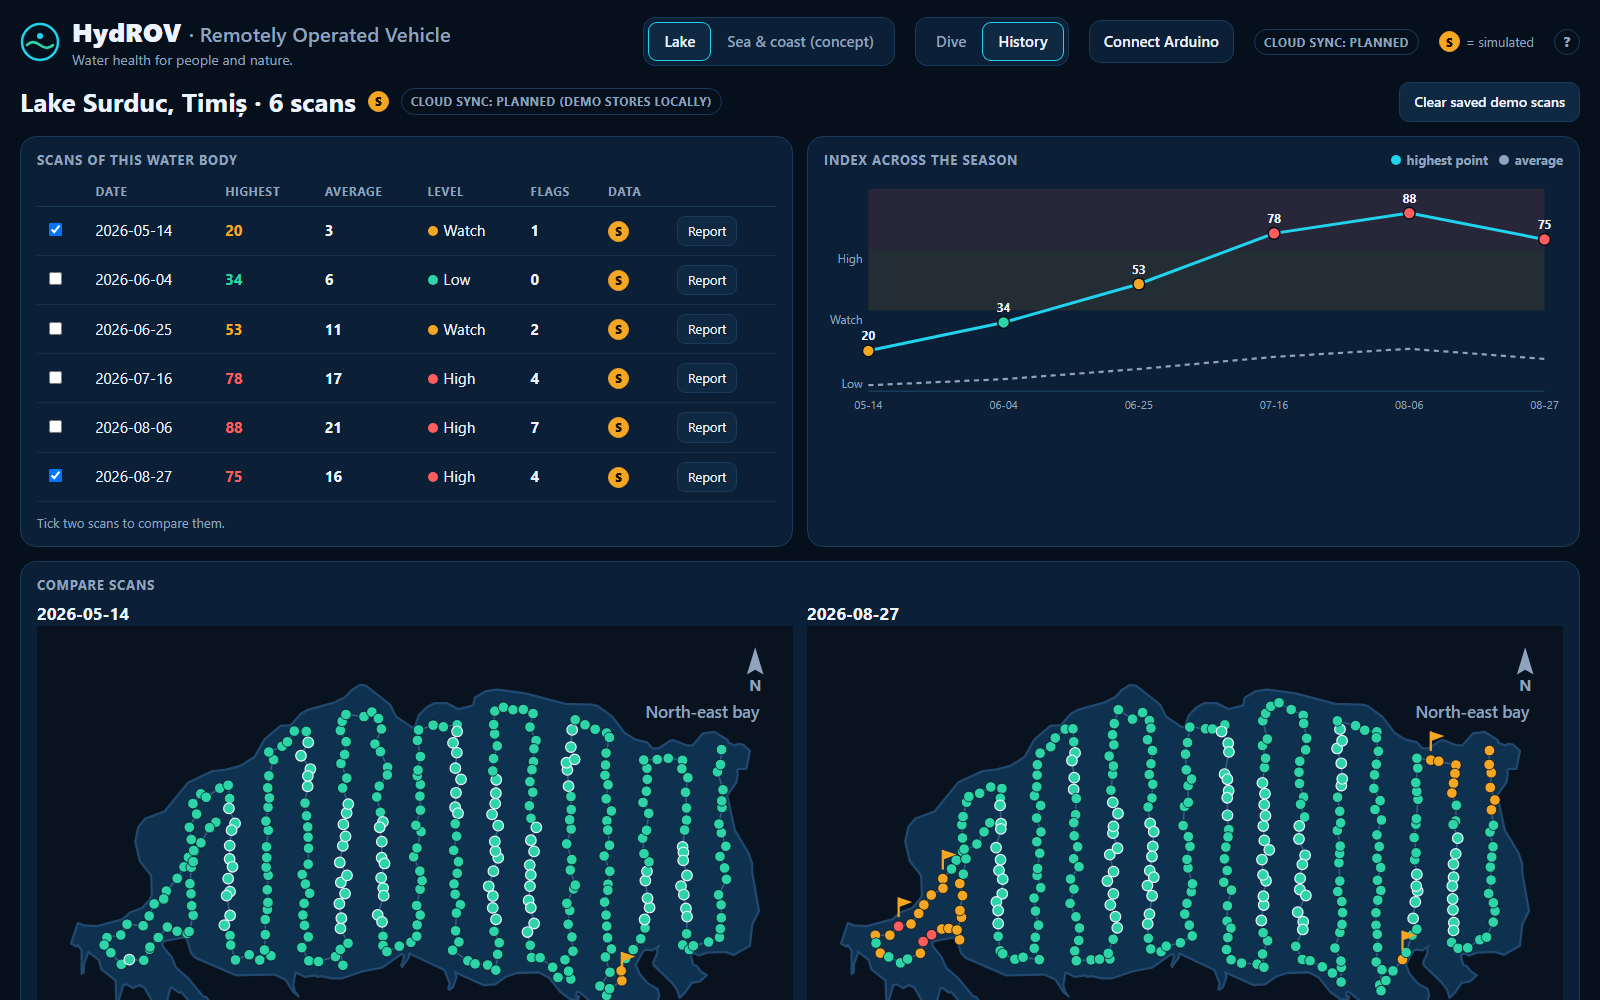
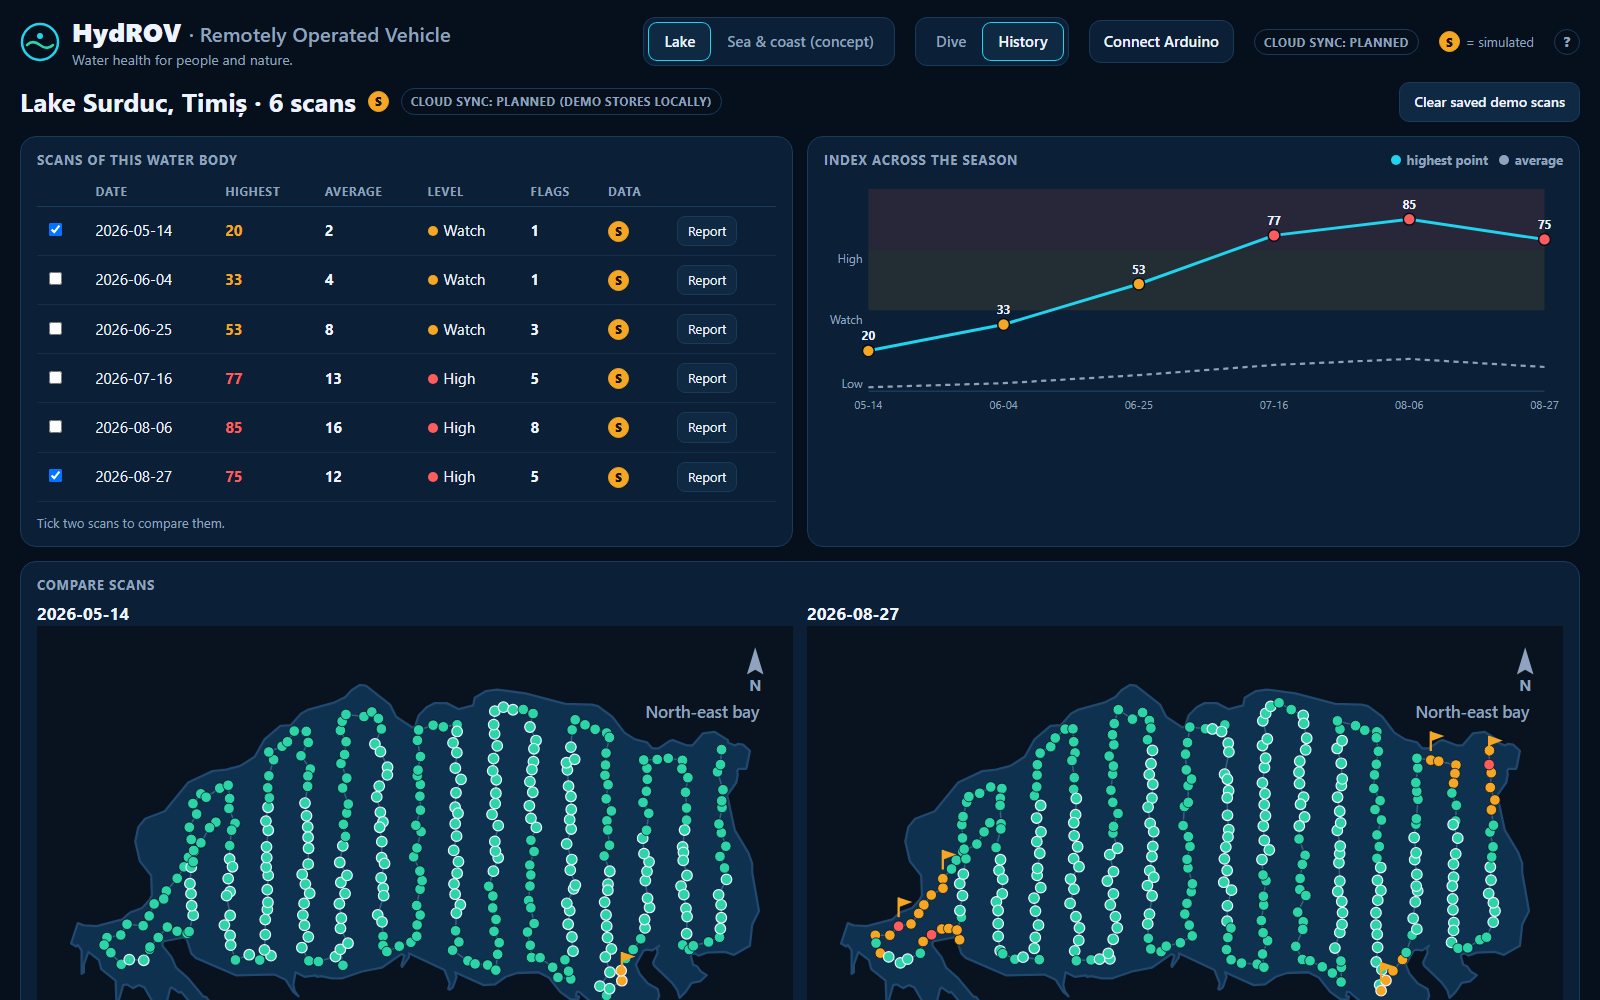
App: simulated lake depth from 1 to 16 m
Bottom depth now ranges from about 1 m at the shore to 16 m in the
middle; the ROV profiles between 1 m and just above the bottom. Summer
thermocline near 5 m, very low oxygen below about 10 m in the deep
basin, blooms at 1 to 3 m in the shallow edges. Depth chart scaled to
16 m. Dives below 7.5 m assume the longer tether we plan.

diff --git a/app/index.html b/app/index.html
@@ -238,7 +238,7 @@ table.scans button{background:var(--card2);border:1px solid var(--line);border-r
       <div class="card">
         <h3>Risk map of the dive <span class="chip sim s" title="SIMULATED: generated by the app, not measured">S</span><span class="grow" id="mapMeta"></span><span class="mapctl"><button id="zoomOut" title="Zoom out">−</button><button id="zoomIn" title="Zoom in">+</button><button id="btnView">Whole lake</button></span></h3>
         <svg id="map" viewBox="0 0 1000 620" role="img" aria-label="Risk map"></svg>
-        <div class="legend"><span><i style="background:#2DD4A8"></i>Low</span><span><i style="background:#F5A623"></i>Watch</span><span><i style="background:#FF5D5D"></i>High</span><span><i style="background:#0F3150;box-shadow:0 0 0 2px #EEF4FF inset"></i>Ringed dot: reading below 4 m</span></div>
+        <div class="legend"><span><i style="background:#2DD4A8"></i>Low</span><span><i style="background:#F5A623"></i>Watch</span><span><i style="background:#FF5D5D"></i>High</span><span><i style="background:#0F3150;box-shadow:0 0 0 2px #EEF4FF inset"></i>Ringed dot: reading below 5 m</span></div>
         <div class="mapInfo" id="mapInfo"></div>
       </div>
       <div class="card">
@@ -339,29 +339,30 @@ const SCENARIOS = {
       {date:'2026-08-06', seed:15, s:0.95, tBase:24},
       {date:'2026-08-27', seed:16, s:0.70, tBase:22.5}
     ],
-    // Simulated bottom depth: grows with distance from the shore, up to about 9 m.
-    bottom(x,y){ return 0.8 + 8.2*(1-Math.exp(-shoreDist(this,x,y)/45)); },
-    // The ROV profiles up and down (0.5 m to 6.5 m, the tether is 7.5 m) while it moves.
+    // Simulated bottom depth: grows with distance from the shore, from about 1 m up to 16 m.
+    bottom(x,y){ return 1 + 15*(1-Math.exp(-shoreDist(this,x,y)/55)); },
+    // The ROV profiles up and down between 1 m and just above the bottom (max 16 m) while it moves.
+    // Note: the prototype tether is 7.5 m; dives below that assume the longer tether we plan.
     depth(i,x,y,bottom){
-      const P=32, u=(i%P)/P, tri=u<0.5?2*u:2-2*u;
-      const dmax=Math.max(0.6, Math.min(6.5, bottom-0.5));
-      return 0.5 + (dmax-0.5)*tri;
+      const P=40, u=(i%P)/P, tri=u<0.5?2*u:2-2*u;
+      const dmax=Math.max(1.1, Math.min(15.6, bottom-0.4));
+      return 1 + (dmax-1)*tri;
     },
     // Summer picture of a stratified reservoir (simulated):
     //  - blooms in warm, shallow, sheltered edges (west coves, north-east bay), near the surface
-    //  - thermocline near 4 m: colder water below, oxygen drops in the deep basin
+    //  - thermocline near 5 m: colder water below; oxygen drops below about 8 m in the deep basin
     //  - murky inflow water at the south inlets, and stirred-up sediment near the bottom
     fields(x,y,d,p,r,bottom){
-      const surf = Math.exp(-(Math.max(0,d-1.8)**2)/(2*0.9*0.9));
+      const surf = Math.exp(-(Math.max(0,d-2.5)**2)/(2*1.2*1.2));
       const B = p.s*surf*Math.max(g2(x,y,118,425,85), 0.9*g2(x,y,885,190,55));
-      const strat = 1/(1+Math.exp(-(d-4)/0.5));
-      const deep = clamp01((bottom-6.5)/1.5) * clamp01(1.4*g2(x,y,650,300,170));
-      const H = p.s*strat*deep*clamp01((d-3.8)/1.6);
+      const strat = 1/(1+Math.exp(-(d-5)/0.7));
+      const deep = clamp01((bottom-10)/3) * clamp01(1.4*g2(x,y,650,300,170));
+      const H = p.s*strat*deep*clamp01((d-7.5)/3);
       const T1 = g2(x,y,795,478,50);
       const nearBottom = Math.exp(-Math.max(0,bottom-d)/0.5);
       return {
         chl: Math.max(0.5, 3 + 70*B + 2*(1-strat) + gauss(r)*1.0),
-        temp: p.tBase + 1.5*B - (p.tBase-14)*strat*0.85 - 0.15*d + gauss(r)*0.12,
+        temp: p.tBase + 1.5*B - (p.tBase-12)*strat*0.85 - 0.08*d + gauss(r)*0.12,
         do: Math.max(0.3, 8.6 - 4.2*B - 7.0*H + gauss(r)*0.15),
         ph: 7.7 + 1.3*B - 0.6*H + gauss(r)*0.04,
         turb: Math.round(350 + 1300*B + 1000*T1 + 500*nearBottom + 250*H + gauss(r)*25),
@@ -509,7 +510,7 @@ function verdictFor(p, sc){
   const pr = PROFILES[S.profile] || PROFILES.lake, at = p.depth.toFixed(1)+' m';
   if(sc.id==='lake'){
     if(p.reason==='oxygen') return p.shown==='high'
-      ? ['High: very low oxygen at '+at+'. Sample now. Lab confirms.', 'Below the thermocline (about 4 m), '+p.do.toFixed(1)+' mg/L. Fish at risk. '+pr.deep]
+      ? ['High: very low oxygen at '+at+'. Sample now. Lab confirms.', 'Below the thermocline (about 5 m), '+p.do.toFixed(1)+' mg/L. Fish at risk. '+pr.deep]
       : ['Watch: oxygen dropping at '+at+'. Sample here.', p.do.toFixed(1)+' mg/L below the thermocline. '+pr.deep];
     if(p.shown==='high') return ['High: do not swim. Sample now. Lab confirms.', 'Bloom signal at '+at+'. '+pr.high];
     if(p.reason==='murky') return ['Watch: murky water at '+at+'. Sample for lab (sediment, nutrients, bacteria).', 'Likely inflow or stirred-up sediment. The lab can tell.'];
@@ -706,7 +707,7 @@ function drawMap(svg, s, points, upto, flags, opts){
   const shown=points.slice(0,upto+1);
   if(shown.length>1) h+='<polyline points="'+shown.map(p=>p.x.toFixed(1)+','+p.y.toFixed(1)).join(' ')+'" fill="none" stroke="'+pal.path+'" stroke-width="2"/>';
   shown.forEach(p=>{
-    const deepRing = p.depth>4;
+    const deepRing = p.depth>5;
     h+='<circle data-i="'+p.i+'" cx="'+p.x.toFixed(1)+'" cy="'+p.y.toFixed(1)+'" r="'+(S.selected===p.i&&!opts.static?r+3:r)+'" fill="'+COLORS[p.shown]+'" stroke="'+(deepRing?'#EEF4FF':pal.bg)+'" stroke-width="'+(deepRing?1.6:1)+'" style="cursor:pointer"/>';
   });
   flags.filter(f=>f.i<=upto).forEach(f=>{ const p=points[f.i]; h+=flagIcon(p.x,p.y); });
@@ -721,14 +722,14 @@ function drawMap(svg, s, points, upto, flags, opts){
 }
 function drawProfile(){
   const svg=$('depthChart'); if(!svg) return;
-  const n=S.points.length, L=48, R=985, T=10, B=222, DMAX=9;
+  const n=S.points.length, L=48, R=985, T=10, B=222, DMAX=16;
   const X=i=>L+(R-L)*i/(n-1), Y=d=>T+(B-T)*Math.min(d,DMAX)/DMAX;
   const hasBottom = S.points.length && S.points[0].bottom!=null;
   let h='';
-  [0,2,4,6,8].forEach(d=>{ h+='<line x1="'+L+'" y1="'+Y(d)+'" x2="'+R+'" y2="'+Y(d)+'" stroke="#1A3A5A" stroke-width="1"/><text x="'+(L-8)+'" y="'+(Y(d)+5)+'" fill="#8FA3BF" font-size="14" text-anchor="end" font-family="Segoe UI,Inter,sans-serif">'+d+' m</text>'; });
+  [0,4,8,12,16].forEach(d=>{ h+='<line x1="'+L+'" y1="'+Y(d)+'" x2="'+R+'" y2="'+Y(d)+'" stroke="#1A3A5A" stroke-width="1"/><text x="'+(L-8)+'" y="'+(Y(d)+5)+'" fill="#8FA3BF" font-size="14" text-anchor="end" font-family="Segoe UI,Inter,sans-serif">'+d+' m</text>'; });
   if(hasBottom){
     h+='<polygon points="'+L+','+B+' '+S.points.map(p=>X(p.i).toFixed(1)+','+Y(p.bottom).toFixed(1)).join(' ')+' '+R+','+B+'" fill="#2A2418" fill-opacity=".9"/>';
-    h+='<line x1="'+L+'" y1="'+Y(4)+'" x2="'+R+'" y2="'+Y(4)+'" stroke="#8FA3BF" stroke-width="1.5" stroke-dasharray="6 6"/><text x="'+(R-6)+'" y="'+(Y(4)-6)+'" fill="#8FA3BF" font-size="14" text-anchor="end" font-family="Segoe UI,Inter,sans-serif">thermocline, about 4 m (summer)</text>';
+    h+='<line x1="'+L+'" y1="'+Y(5)+'" x2="'+R+'" y2="'+Y(5)+'" stroke="#8FA3BF" stroke-width="1.5" stroke-dasharray="6 6"/><text x="'+(R-6)+'" y="'+(Y(5)-6)+'" fill="#8FA3BF" font-size="14" text-anchor="end" font-family="Segoe UI,Inter,sans-serif">thermocline, about 5 m (summer)</text>';
     h+='<text x="'+(R-6)+'" y="'+(B-8)+'" fill="#8A7A5A" font-size="14" text-anchor="end" font-family="Segoe UI,Inter,sans-serif">lake bottom (simulated)</text>';
   }
   S.flags.filter(f=>f.i<=S.step).forEach(f=>{ h+='<line x1="'+X(f.i)+'" y1="'+T+'" x2="'+X(f.i)+'" y2="'+B+'" stroke="#F5A623" stroke-width="1.5" stroke-dasharray="4 4"/>'; });

diff --git a/README.md b/README.md
@@ -36,8 +36,8 @@ Without Python, double-click `app/index.html`. Everything works except Connect A
 
 - Press **Start dive** (or the space bar). The dive keeps going, lap after lap, until you press **Stop**. Each lap is saved to History. A lake lap is 360 readings, about 2.5 minutes at 1x; use 2x or 4x to speed up.
 - The lake survey covers the whole lake: the shallow west coves first, then back-and-forth passes from west to east. The next lap runs the same route back.
-- The map follows the robot zoomed in. Use **+** and **−** to zoom, and **Whole lake** to see everything. Dots with a white ring are readings taken below 4 m.
-- The chart under the map shows the index and the depth of every reading, with the lake bottom and the summer thermocline (about 4 m). Problems show at the depth where they were found: blooms near the surface in the warm, shallow edges, and very low oxygen below the thermocline in the deep basin.
+- The map follows the robot zoomed in. Use **+** and **−** to zoom, and **Whole lake** to see everything. Dots with a white ring are readings taken below 5 m.
+- The chart under the map shows the index and the depth of every reading, with the lake bottom and the summer thermocline (about 5 m). The simulated lake is 1 to 16 m deep. Problems show at the depth where they were found: blooms near the surface (about 1 to 3 m) in the warm, shallow edges, and very low oxygen below about 10 m in the deep basin. The prototype tether is 7.5 m, so dives below that assume the longer tether we plan.
 - The **?** in the top-right corner explains what is simulated. Every reading card and chart is also labeled SIMULATED, or LIVE when it comes from the Arduino.
 - The lake scenario is drawn on the real shoreline of **Lake Surduc** (Timiș county) from OpenStreetMap, with real coordinates and a timestamp for every point. The readings on that map are SIMULATED. We have not measured this lake, and the demo says nothing about its real water quality.
 - Switch between **Lake** and **Sea & coast (concept)** at the top. The sea scenario is a concept. The prototype is freshwater.
